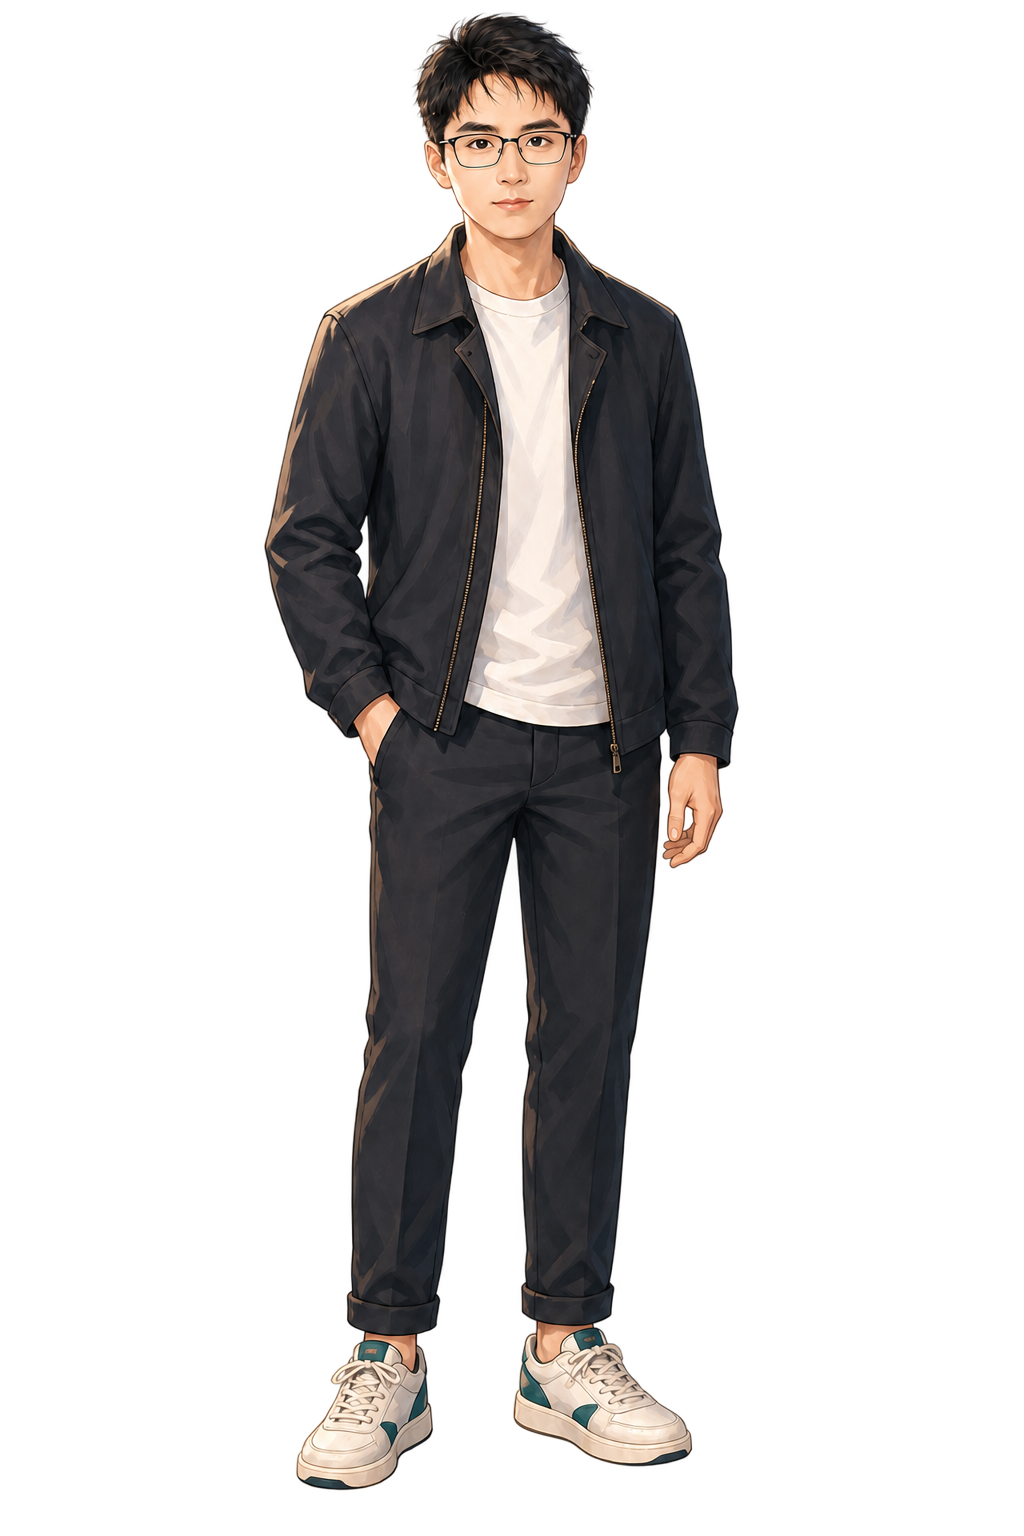
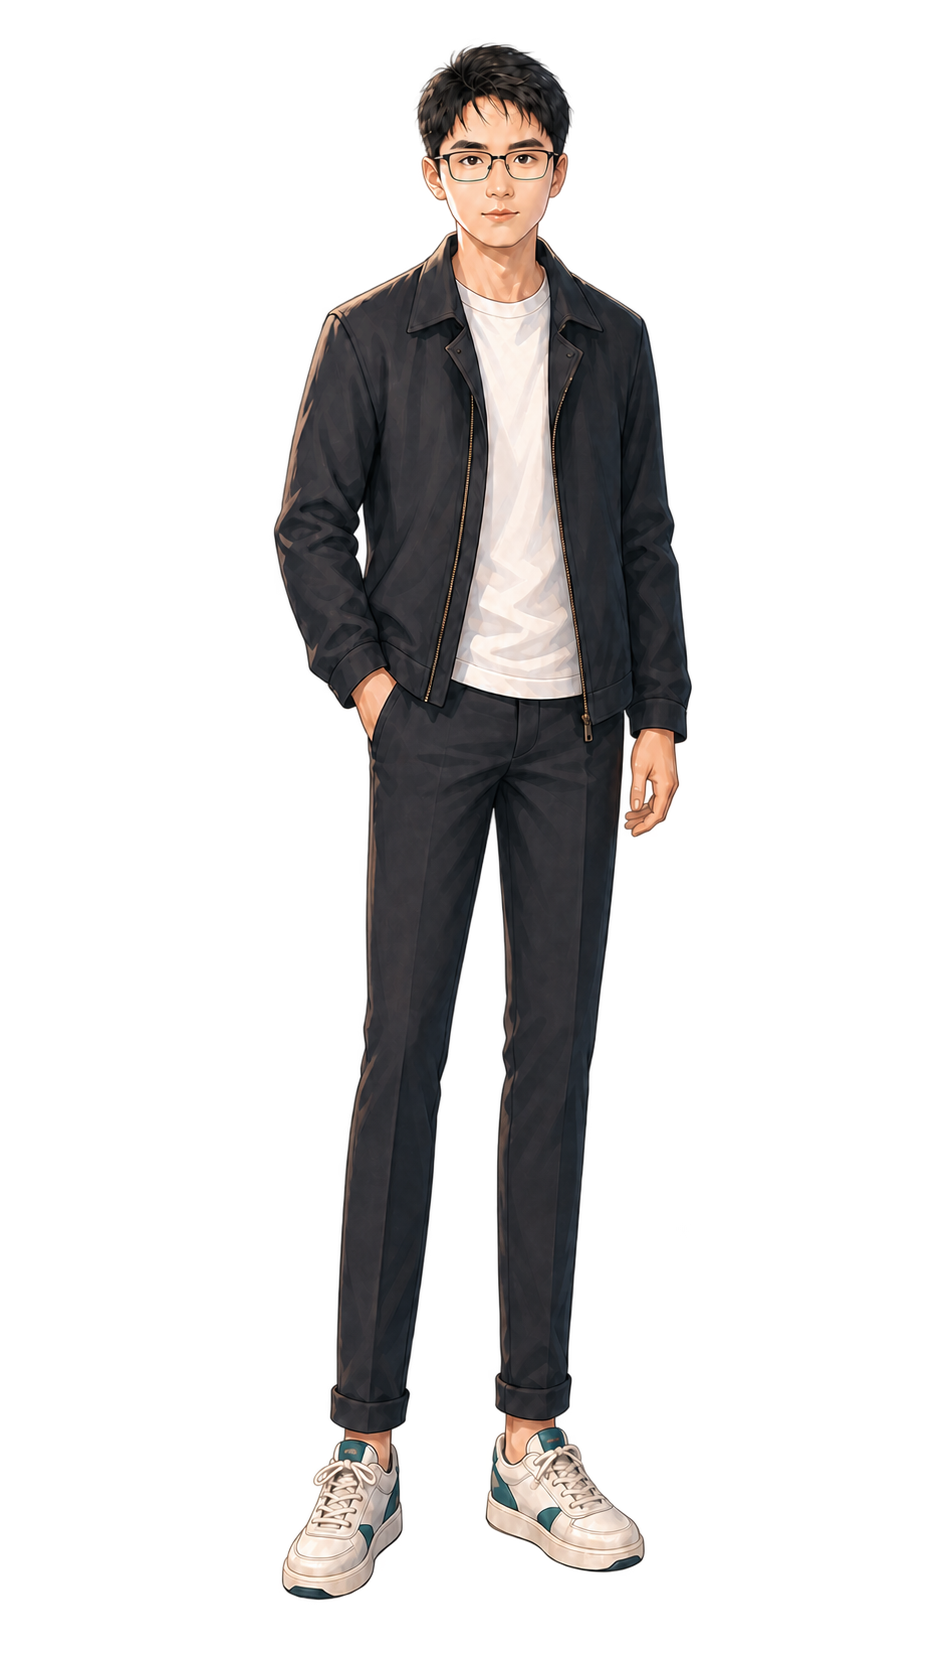
Refine Renren character proportions

diff --git a/src/main.ts b/src/main.ts
@@ -47,7 +47,7 @@ app.innerHTML = `
 
       <div class="character-wrap" data-character aria-live="polite">
         <p class="speech" data-speech>Give me a second. I’m checking the doors.</p>
-        <img src="./renren-character.png" alt="Renren, standing in the current browser room" width="1024" height="1536" />
+        <img src="./renren-character.png" alt="Renren, standing in the current browser room" width="948" height="1659" />
         <span class="shadow" aria-hidden="true"></span>
         <span class="sleep" aria-hidden="true">Z <i>z</i> <i>z</i></span>
       </div>
